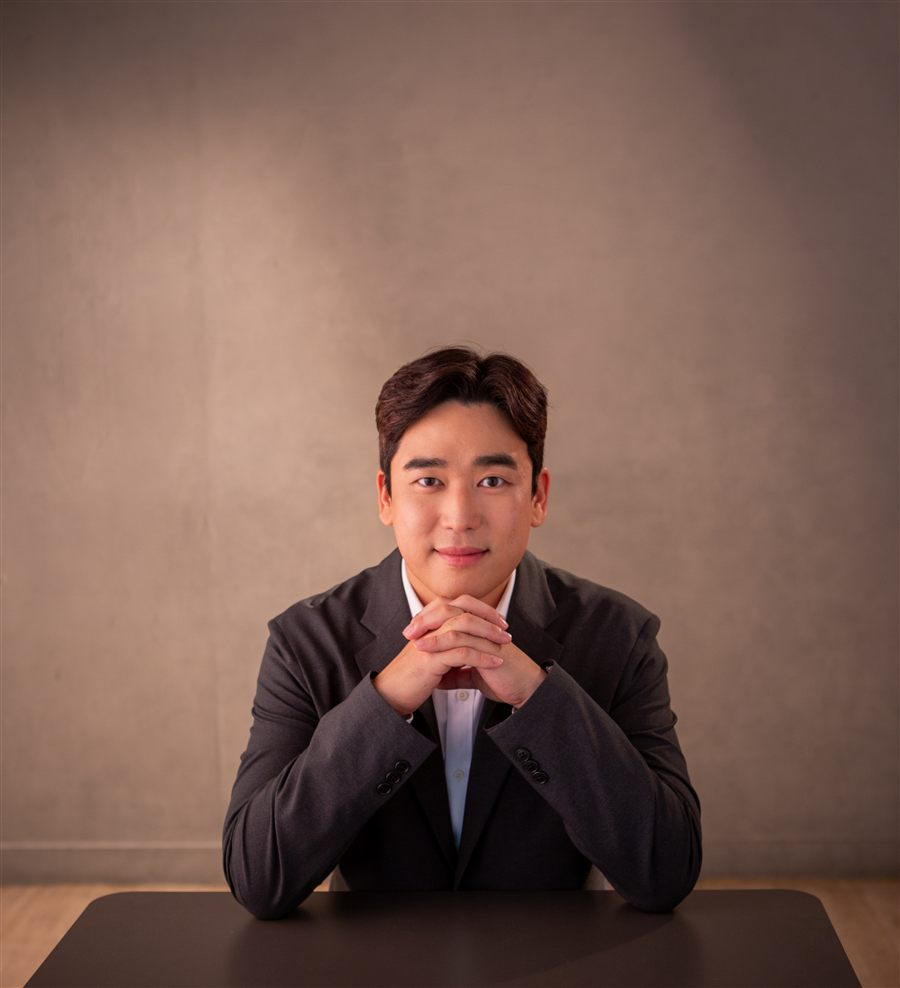
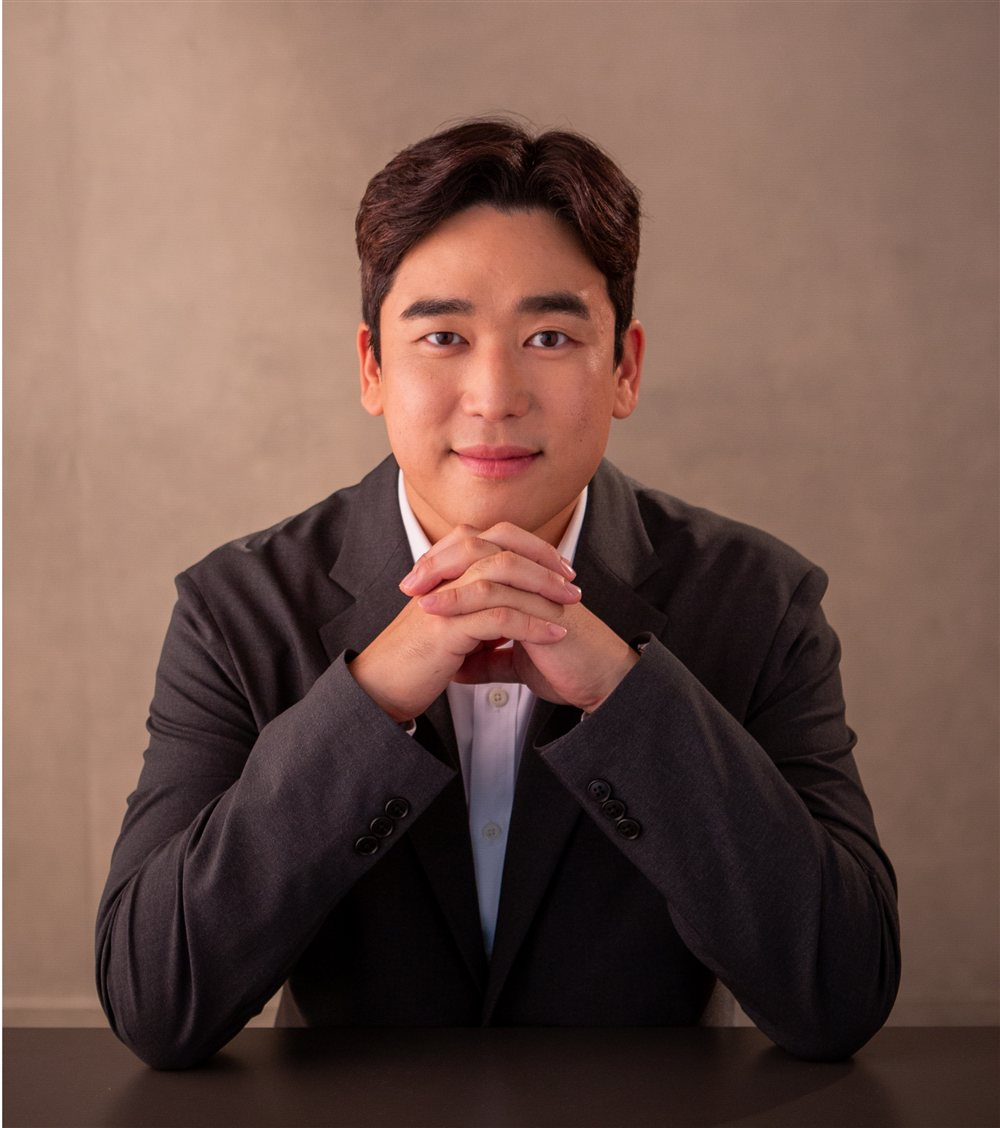
프로필사진 수정

diff --git a/assets/css/styles.css b/assets/css/styles.css
@@ -294,26 +294,27 @@ section { padding: 76px 0; }
 }
 .focus-list li b { color: var(--ink); }
 
-/* ---------- PI profile ---------- */
+/* ---------- PI profile (matches the .member card format) ---------- */
 .pi-card {
-  display: flex; flex-direction: column; align-items: center; text-align: center;
+  max-width: 480px; margin: 0 auto;
   background: var(--white); border: 1px solid var(--line);
-  border-radius: var(--radius); padding: 48px 34px 40px;
+  border-radius: var(--radius); overflow: hidden;
+  transition: transform .18s, box-shadow .18s;
 }
+.pi-card:hover { transform: translateY(-4px); box-shadow: var(--shadow); }
 .pi-photo {
-  width: clamp(220px, 30vw, 320px); aspect-ratio: 3/4; border-radius: 12px; overflow: hidden;
+  aspect-ratio: 3/4;
   background: linear-gradient(135deg, var(--primary-lt), var(--primary-dk));
   display: grid; place-items: center; color: #fff;
   font-family: var(--display); font-size: 56px; font-weight: 500;
-  margin-bottom: 28px; box-shadow: var(--shadow);
 }
 .pi-photo img { width: 100%; height: 100%; object-fit: cover; }
-.pi-info { max-width: 480px; }
-.pi-info h2 { font-family: var(--display); font-weight: 600; font-size: 28px; }
+.pi-info { padding: 28px 32px 34px; }
+.pi-info h2 { font-family: var(--display); font-weight: 600; font-size: 27px; }
 .pi-info .pi-ko { color: var(--muted); font-size: 16px; margin-top: 2px; }
-.pi-info .pi-role { color: var(--accent); font-weight: 600; font-size: 14.5px; margin: 10px 0 4px; }
-.pi-info .pi-aff { color: var(--ink-soft); font-size: 15px; }
-.pi-info .pi-contact { margin-top: 14px; display: grid; justify-items: center; gap: 4px; font-size: 15px; }
+.pi-info .pi-role { color: var(--accent); font-weight: 600; font-size: 14.5px; margin: 12px 0 5px; }
+.pi-info .pi-aff { color: var(--ink-soft); font-size: 15.5px; }
+.pi-info .pi-contact { margin-top: 14px; display: grid; gap: 4px; font-size: 15.5px; }
 .pi-info .pi-contact a { color: var(--primary); font-weight: 600; }
 .pi-block { margin-top: 30px; }
 .pi-block h3 {
@@ -454,7 +455,6 @@ section { padding: 76px 0; }
   .dropdown a:hover { background: var(--paper-2); color: var(--primary); }
   .dropdown a.active { color: var(--primary); }
   .grid-3, .grid-2, .member-grid { grid-template-columns: 1fr; }
-  .pi-card { padding: 36px 22px 32px; }
   .footer-top { flex-direction: column; }
   section { padding: 56px 0; }
   .brand .name { font-size: 14px; }
